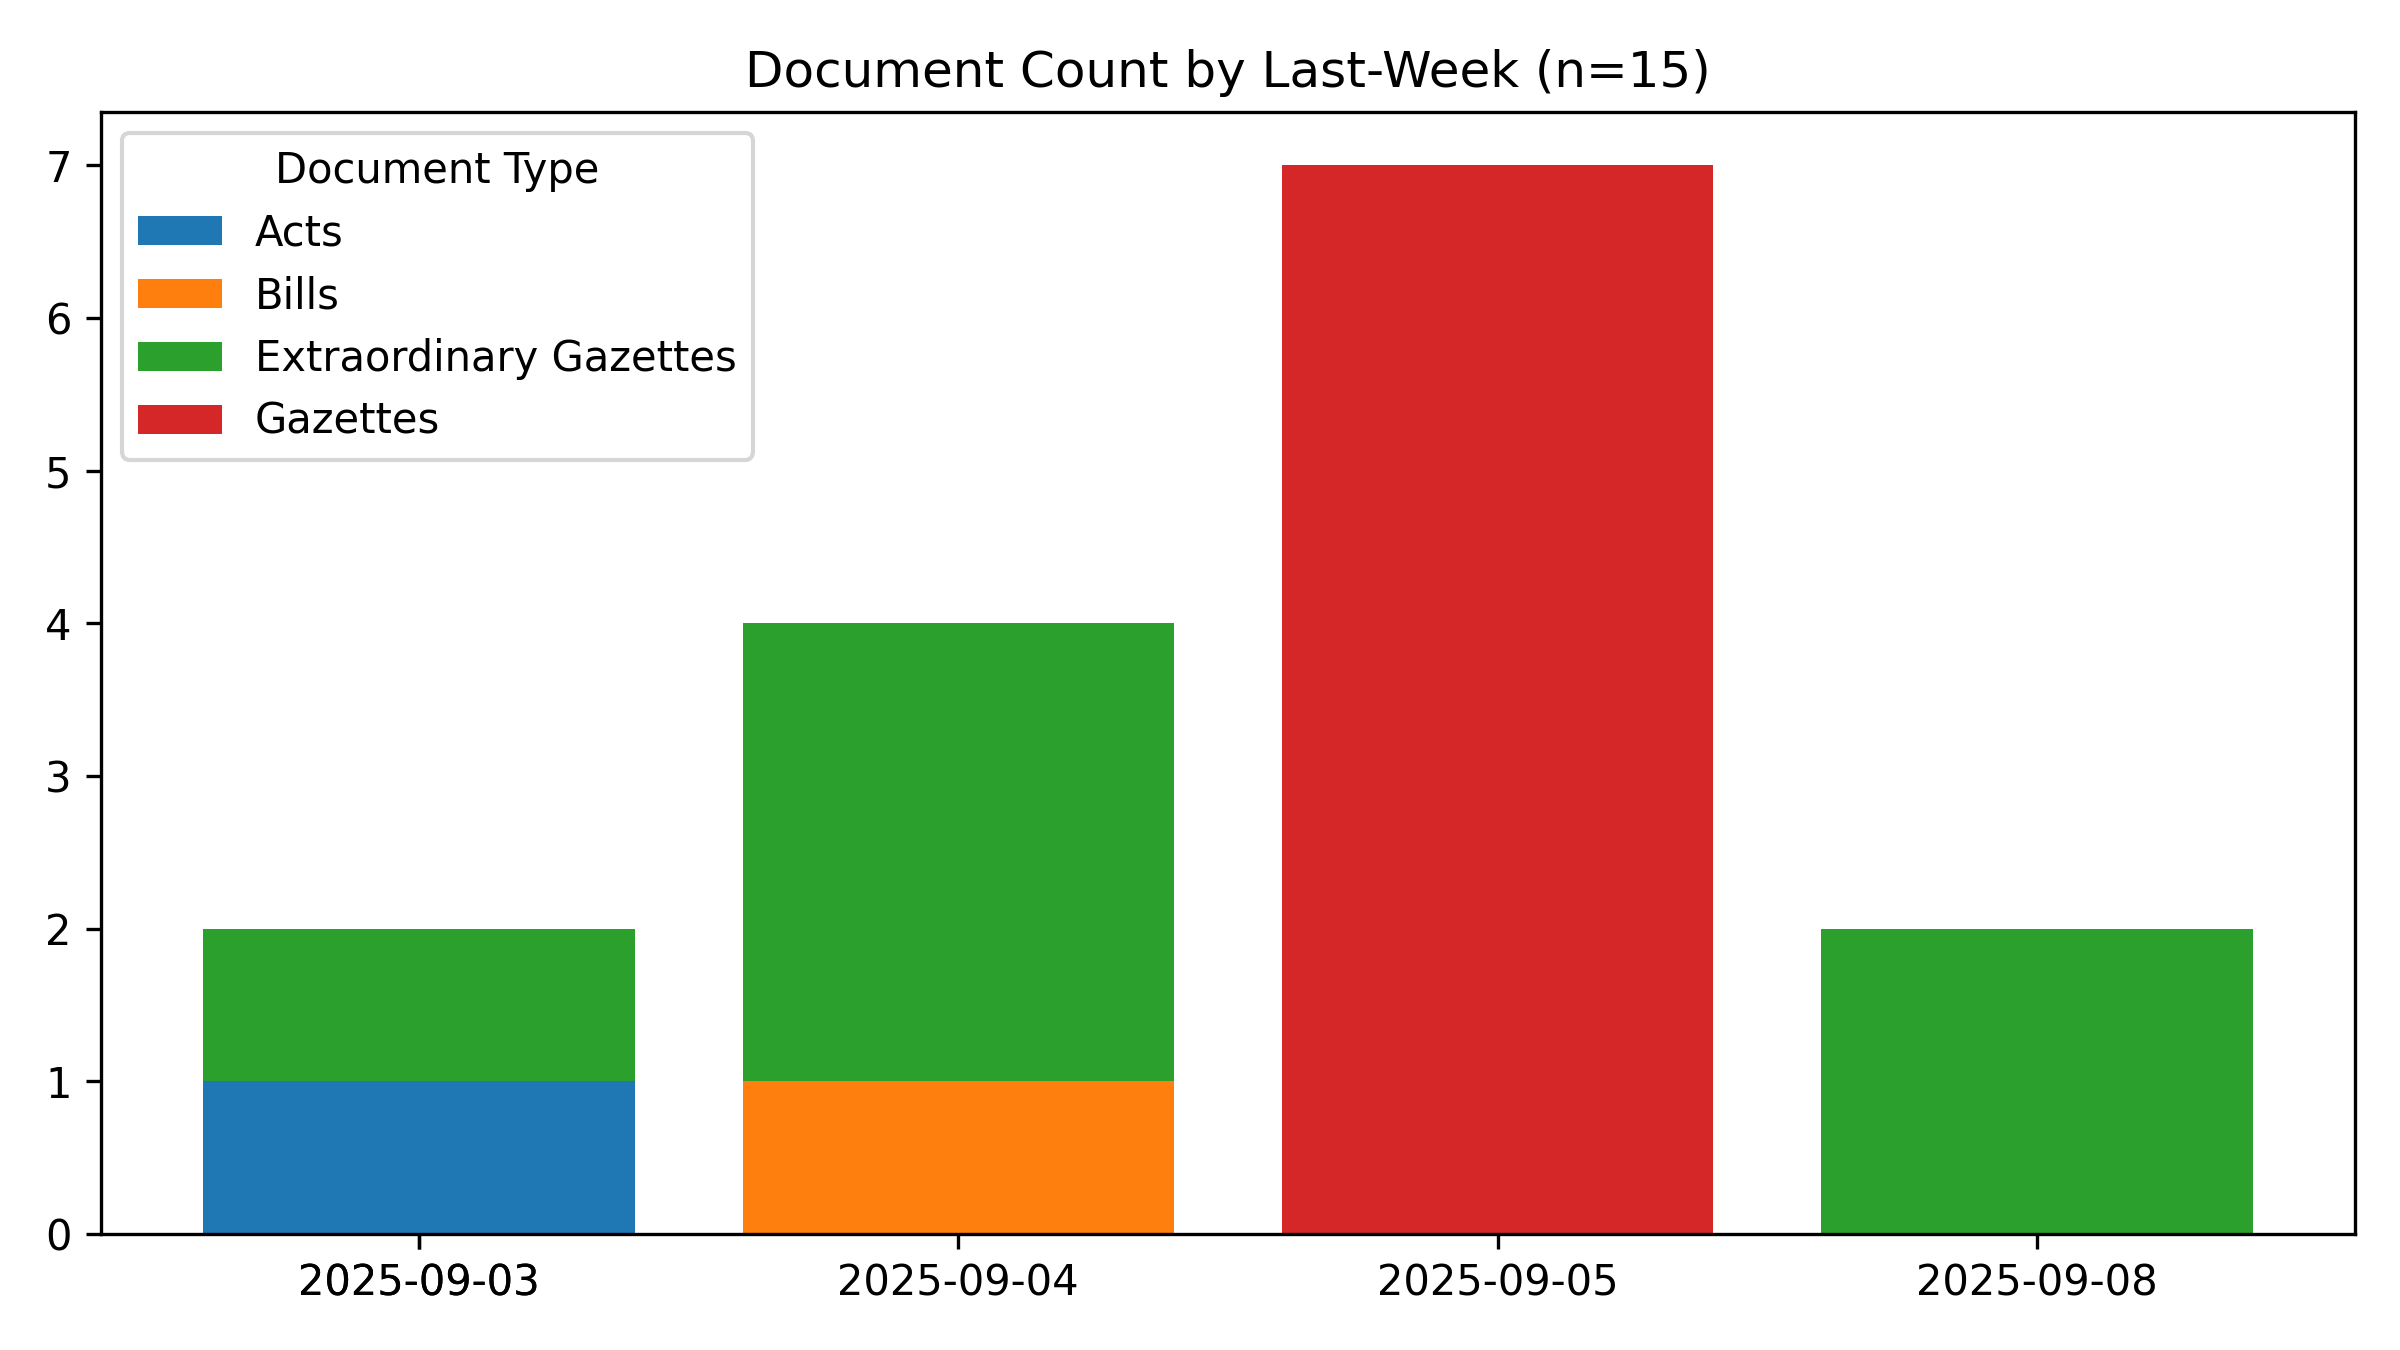
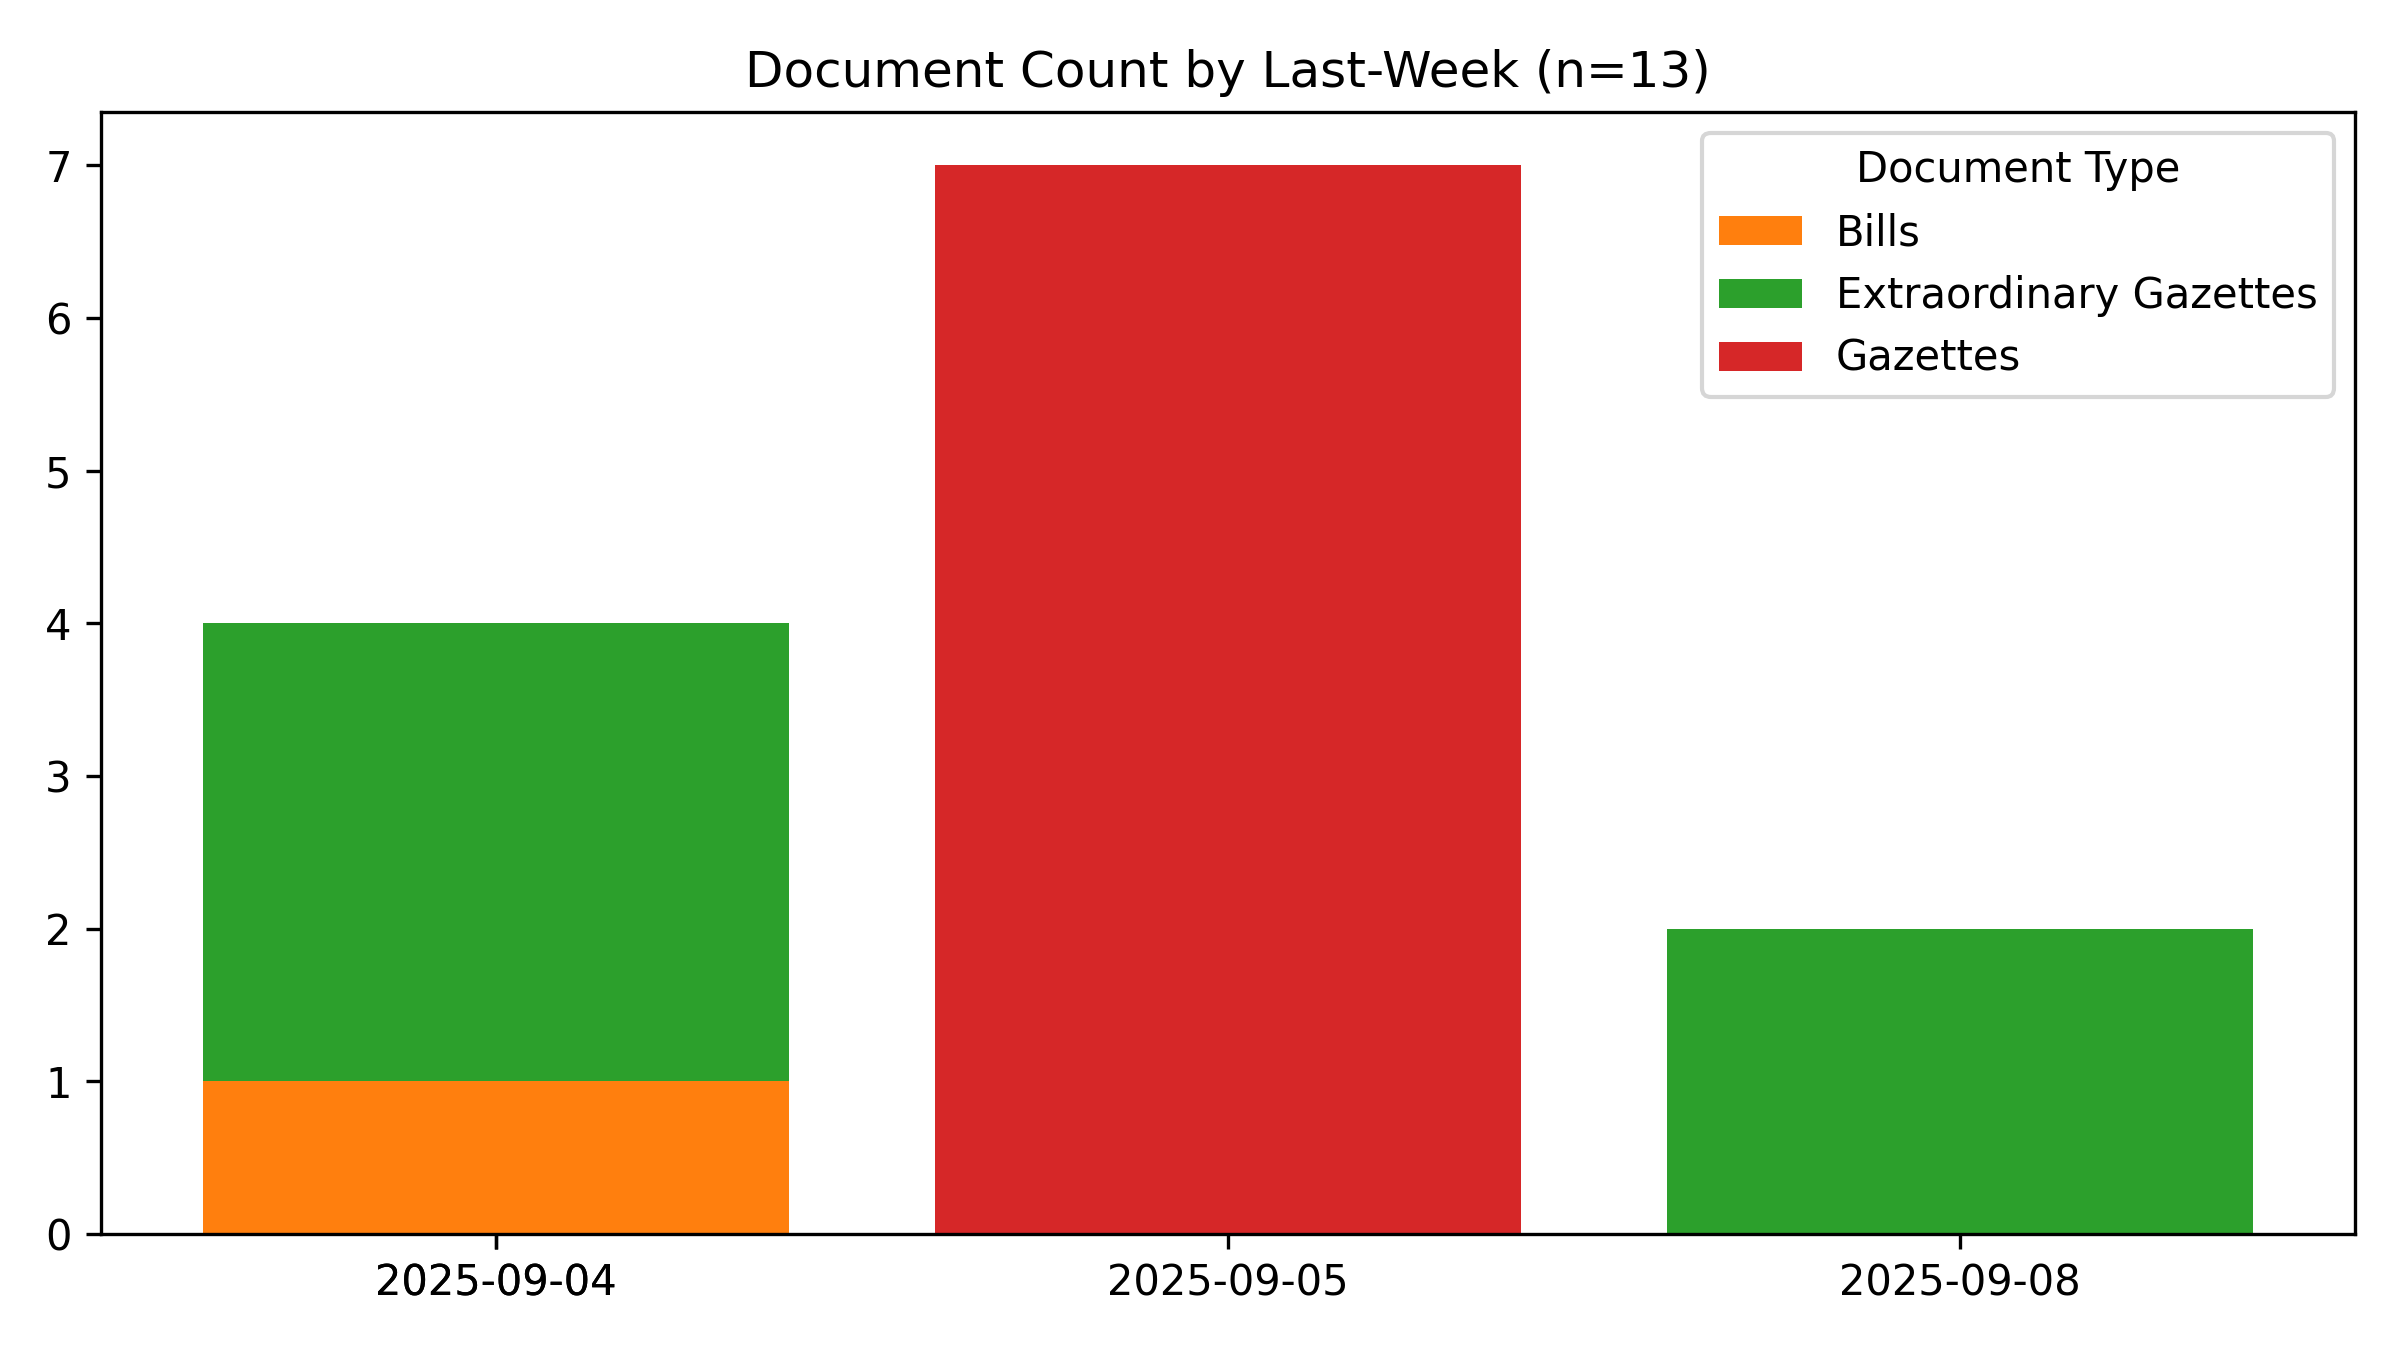
🤖 [build_readme.yml] 2025-09-11-0015

diff --git a/README.md b/README.md
@@ -1,6 +1,6 @@
 # #SriLanka 🇱🇰 - Legal Documents #Dataset
 
-*Last Updated **2025-09-11 05:12:58**.*
+*Last Updated **2025-09-11 05:45:20**.*
 
 **44,552** documents (24.4 MB), from 1981-01-22 to 2025-09-08.
 
@@ -54,7 +54,7 @@ For best results, use a desktop browser.
 
 ## Recent Documents (Published during the last 7 days)
 
-**15** Documents
+**13** Documents
 
 - 🚨 [2025-09-08] [Election Commission - L. A. E. O. Notice Under Section 66A (1) Filling of a Vacancy in the office of members of the Akkaraipattu M/C](https://github.com/nuuuwan/lk_legal_docs_data/tree/data_2020s/data/extra-gazettes/2025/2453-14)
 - 🚨 [2025-09-08] [Sri Lanka Customs - Rates of Exchange with effect from 08.09.2025 to 14.09.2025](https://github.com/nuuuwan/lk_legal_docs_data/tree/data_2020s/data/extra-gazettes/2025/2453-01)
@@ -69,5 +69,3 @@ For best results, use a desktop browser.
 - 🚨 [2025-09-04] [Election Commission - Filling of a vacancy in the office of member of the Medawachchiya Pradeshiya Sabha](https://github.com/nuuuwan/lk_legal_docs_data/tree/data_2020s/data/extra-gazettes/2025/2452-41)
 - 🚨 [2025-09-04] [2452/38](https://github.com/nuuuwan/lk_legal_docs_data/tree/data_2020s/data/extra-gazettes/2025/2452-38)
 - 🚨 [2025-09-04] [Land Title Settlement Dept. - Homagama, Homagama D/S Division, Colombo District (25/55050)](https://github.com/nuuuwan/lk_legal_docs_data/tree/data_2020s/data/extra-gazettes/2025/2452-31)
-- 🚨 [2025-09-03] [Coast Conservation and Costal Resource Management Department- Environmental Impact Assessment Report Proposed Projection on 288 units of Apartment Project](https://github.com/nuuuwan/lk_legal_docs_data/tree/data_2020s/data/extra-gazettes/2025/2452-21)
-- 🏛 [2025-09-03] [Gambling Regulatory Authority](https://github.com/nuuuwan/lk_legal_docs_data/tree/data_2020s/data/acts/2025/17-2025)
